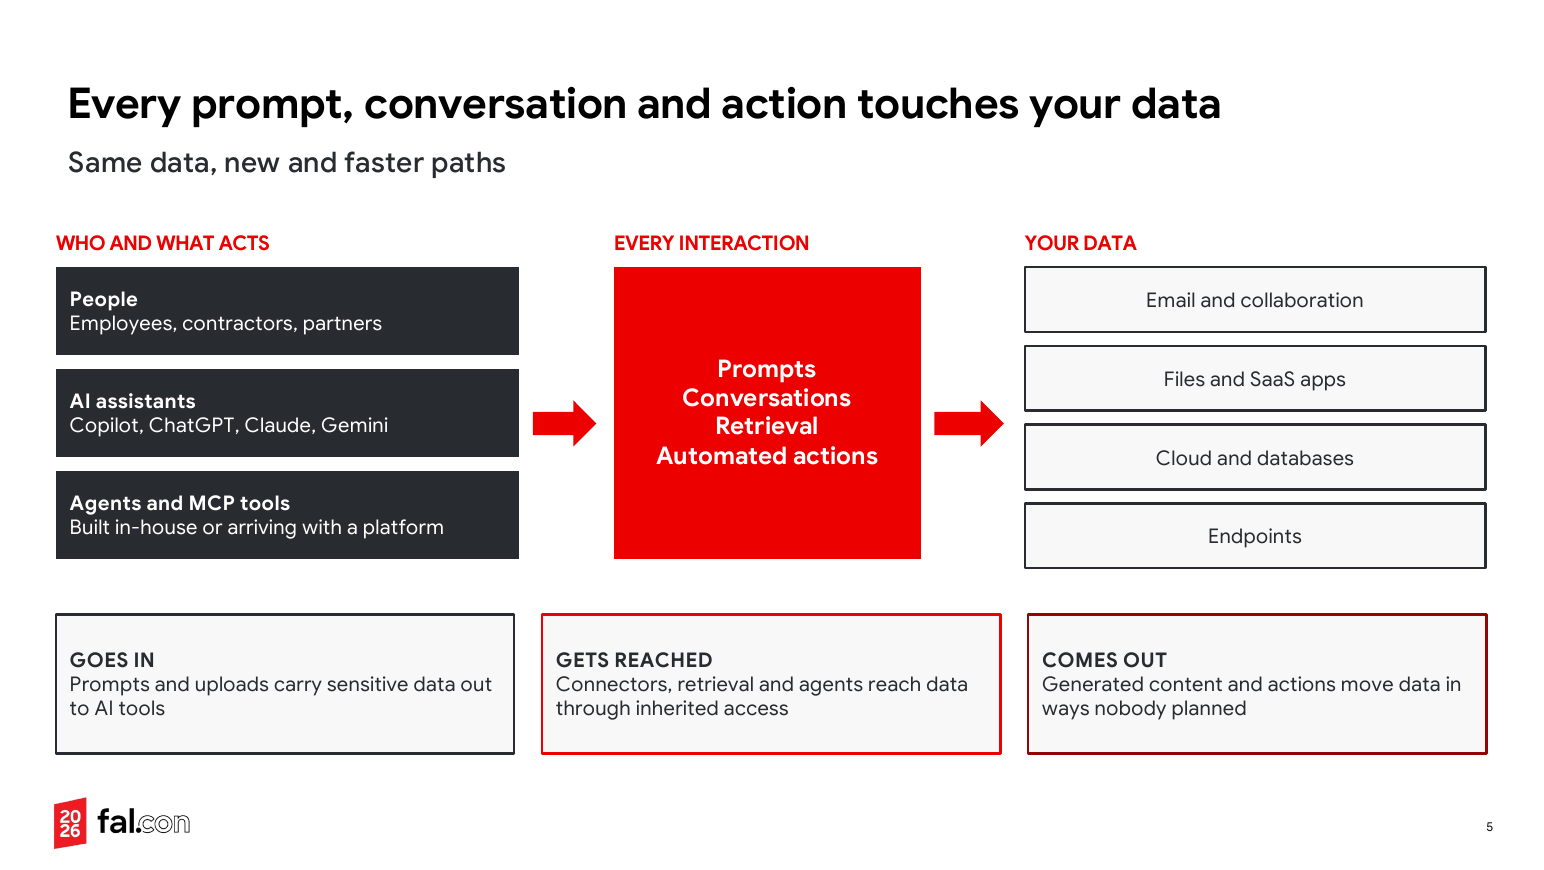
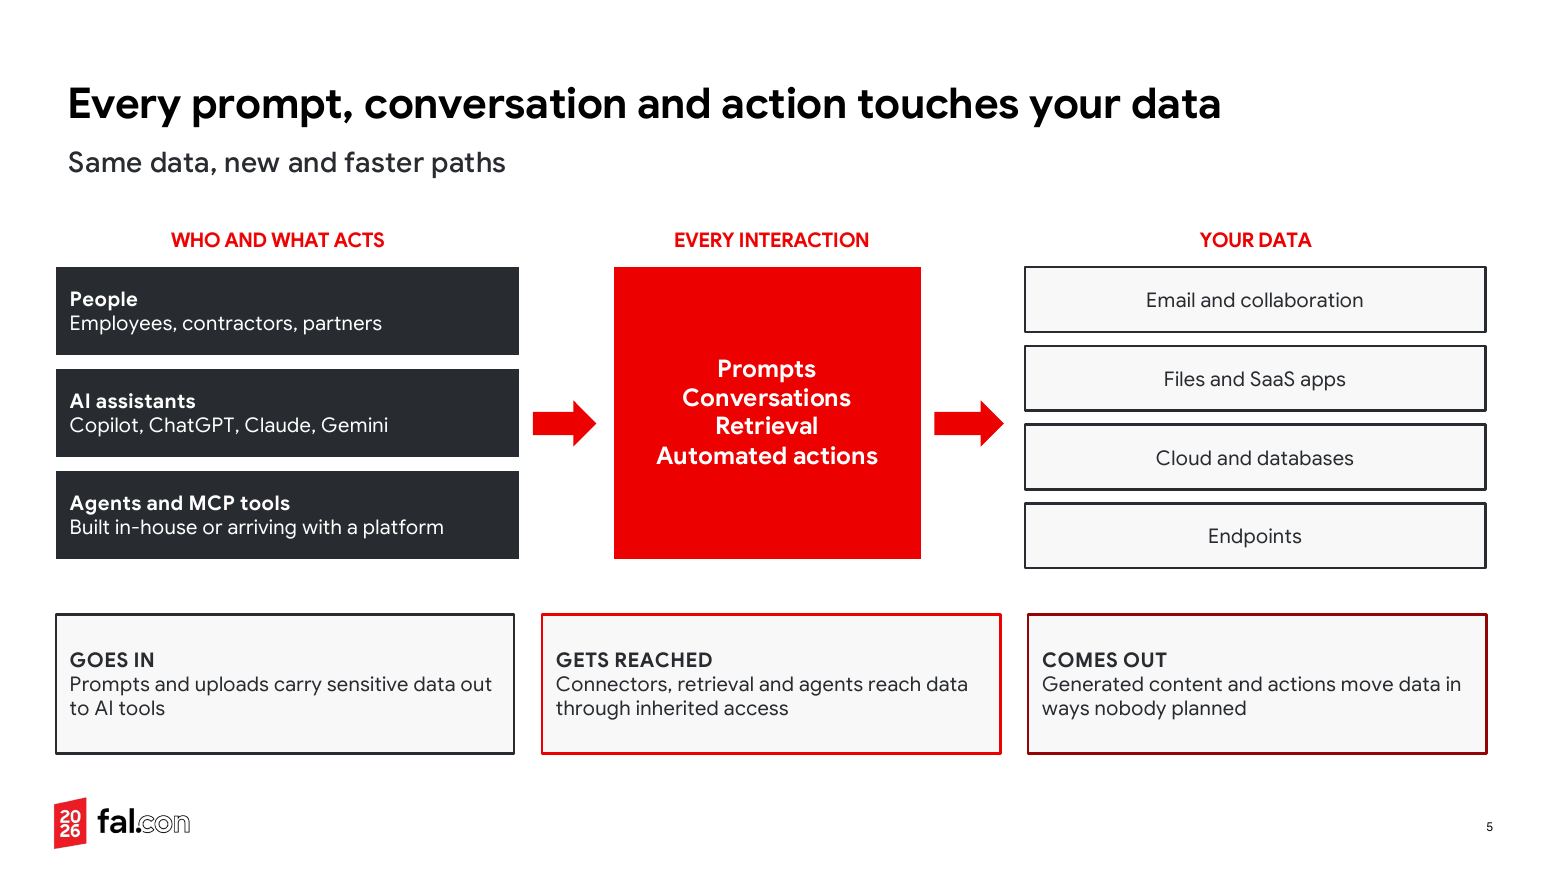
page updates

diff --git a/blog/index.html b/blog/index.html
@@ -23,76 +23,20 @@
 
     <!-- =========================================================
          Conversation thread.
-         The content below is STATIC sample content so the layout is
-         visible end-to-end (greeting → answer → rendered draft).
-         The live model, voice, and real .docx export are wired up in
-         later phases — this file is the UI shell only.
+         Seeded with ONE static assistant greeting — that's the whole
+         "illusion": the AI appears to greet you the moment the page
+         loads (app.js plays a short typing → greeting entrance). Nothing
+         else happens until the user submits. The live model, voice, and
+         real .docx export are wired up in later phases.
          ========================================================= -->
     <div id="thread" class="thread">
 
-      <!-- greeting (New blog resets the thread back to just this) -->
+      <!-- greeting — the only pre-seeded message. "New blog" resets here. -->
       <div class="turn assistant" id="greeting">
         <div class="avatar" aria-hidden="true"></div>
         <div class="content">
           <p>Hi — I'll help you draft a <strong>Proofpoint blog</strong>. Answer a few quick questions and I'll put together a first draft you can refine right here.</p>
           <p>To start: <strong>what are you announcing, and is there a partner involved?</strong></p>
-        </div>
-      </div>
-
-      <!-- sample user answer -->
-      <div class="turn user">
-        <div class="bubble">Proofpoint + SailPoint — we're extending the partnership to connect data security with identity governance, so customers can see which identities put their sensitive data at risk and fix it at the source.</div>
-      </div>
-
-      <!-- sample assistant draft -->
-      <div class="turn assistant">
-        <div class="avatar" aria-hidden="true"></div>
-        <div class="content">
-          <p>Here's a first draft. Tell me what to change — tighten a section, add a stat, swap the title — and I'll update it right here.</p>
-
-          <article class="blog-card">
-            <div class="blog-body">
-              <span class="eyebrow">Draft · Announcement</span>
-              <h1>Proofpoint Extends Its SailPoint Partnership to Reduce Data Exposure and Identify Risk</h1>
-              <p class="dek">Now you can understand and remediate risks to your sensitive data within the context of the identities that can access it.</p>
-              <p class="byline">By Nikhil Sinha, Nirav Shah, Jason Chow · Proofpoint</p>
-
-              <h2>The gap between identity and data</h2>
-              <p>Security and identity teams each see half the picture. Identity teams know who — and what — exists in their environment, but not always what those identities can actually reach, or how sensitive that data is. Data teams know what's sensitive, but not who can get to it, or whether that access is even still needed. Non-human identities make the gap worse: service accounts and AI agents multiply faster than either team can track manually.</p>
-
-              <h2>Why this matters now</h2>
-              <p>Proofpoint monitors more than 50 million cloud accounts across 8,000 customers for signs of account compromise — and in the past 12 months, 99%+ of monitored organizations were targeted for account takeover. According to SailPoint's research, 97% of AI agents have access to sensitive data today, and only 21% of organizations are highly confident they can manage that risk.</p>
-
-              <blockquote class="pullquote">
-                <p>"As AI agents and machine identities multiply across the enterprise, understanding what they can actually access is no longer optional — it's foundational to security."</p>
-                <cite>Soumya Banerjee, Head of Product Acceleration, SailPoint</cite>
-              </blockquote>
-
-              <h2>How it works</h2>
-              <ul>
-                <li><strong>Proofpoint classifies and remediates</strong> — it maps SailPoint's identity inventory to the sensitive data each identity can reach, then right-sizes or revokes access and hands the action to SailPoint to execute at the source.</li>
-                <li><strong>SailPoint enriches its identity context</strong> — it pulls Proofpoint's data-sensitivity metadata into the Identity Graph, so every identity risk profile now includes what sensitive data it can actually reach.</li>
-              </ul>
-
-              <h2>What this means for your organization</h2>
-              <p>The hard part of securing AI agents and service accounts isn't writing new policy — it's connecting the identity governance you already trust to the data it's meant to protect. This is the first step in a broader roadmap to bring identity and data security together.</p>
-              <p class="cta">If you're a joint Proofpoint and SailPoint customer, reach out to your account team to learn more.</p>
-
-              <h2>Frequently asked questions</h2>
-              <div class="faq">
-                <p class="q">What's actually new here?</p>
-                <p class="a">SailPoint's Identity Graph now includes Proofpoint's data-sensitivity context, and Proofpoint's remediation flow now includes SailPoint's identity and risk data — so both platforms act with the full picture, not half of it.</p>
-                <p class="q">Does this replace the partnership you've had since 2020?</p>
-                <p class="a">No — it extends it. The original partnership applied Proofpoint's risk visibility to human users; this brings data security and identity governance together across every identity, human and non-human.</p>
-                <p class="q">When can I get started?</p>
-                <p class="a">We expect this to be available to joint customers by the end of 2026 — reach out to your account team to be notified as it rolls out.</p>
-              </div>
-            </div>
-            <div class="blog-actions">
-              <button class="action-btn primary" type="button" data-action="download">Download .docx</button>
-              <button class="action-btn" type="button" data-action="copy">Copy</button>
-            </div>
-          </article>
         </div>
       </div>
 

diff --git a/blog/app.js b/blog/app.js
@@ -1,11 +1,14 @@
 /* ============================================================
    Blog Generator — UI shell behavior (no model wired yet)
 
-   This only drives the chat *surface*: auto-growing input, sending
-   a message (which echoes a user bubble — there is NO assistant
-   reply yet), "New blog" reset, and the blog-card Copy button.
-   The live model, voice dictation, and real .docx export are added
-   in later phases.
+   Drives the chat *surface* only:
+   • On load, plays a short "typing → greeting" entrance so the AI
+     appears to greet the visitor. The greeting itself is static
+     content pre-seeded in index.html (no model call) — the typing
+     dots are purely a presentational entrance.
+   • Sending echoes a user bubble (there is NO assistant reply yet).
+   • "New blog" replays the greeting entrance.
+   • The blog-card Copy button works; Download/voice are wired later.
    ============================================================ */
 (function () {
   'use strict';
@@ -16,8 +19,12 @@
   var micBtn = document.getElementById('micBtn');
   var newBtn = document.getElementById('newBtn');
 
-  // Snapshot the greeting so "New blog" can reset to a clean slate.
+  // Snapshot the greeting markup before we touch the thread, so we can
+  // replay it on load and on "New blog".
   var greetingHTML = document.getElementById('greeting').outerHTML;
+
+  var reduceMotion = window.matchMedia &&
+    window.matchMedia('(prefers-reduced-motion: reduce)').matches;
 
   /* ---- textarea auto-grow ---- */
   function autoGrow() {
@@ -29,10 +36,44 @@
   /* ---- scroll helper ---- */
   function scrollToEnd() { thread.scrollTop = thread.scrollHeight; }
 
+  /* ---- build the typing indicator turn ---- */
+  function typingTurn() {
+    var t = document.createElement('div');
+    t.className = 'turn assistant';
+    t.innerHTML =
+      '<div class="avatar" aria-hidden="true"></div>' +
+      '<div class="typing" role="status" aria-label="Assistant is typing">' +
+      '<span></span><span></span><span></span></div>';
+    return t;
+  }
+
+  /* ---- greeting entrance: typing dots, then the greeting fades in ----
+     This is the "illusion" — on every load / reset the AI appears to
+     greet the visitor, then waits. No network, no model. */
+  function showGreeting() {
+    thread.innerHTML = '';
+
+    function reveal() {
+      var tmp = document.createElement('div');
+      tmp.innerHTML = greetingHTML;
+      var g = tmp.firstElementChild;
+      if (!reduceMotion) g.classList.add('enter');
+      thread.appendChild(g);
+      scrollToEnd();
+    }
+
+    if (reduceMotion) { reveal(); return; }
+
+    var typing = typingTurn();
+    thread.appendChild(typing);
+    scrollToEnd();
+    setTimeout(function () { typing.remove(); reveal(); }, 750);
+  }
+
   /* ---- append a user turn (pure UI echo — no model reply yet) ---- */
   function addUserMessage(text) {
     var turn = document.createElement('div');
-    turn.className = 'turn user';
+    turn.className = 'turn user' + (reduceMotion ? '' : ' enter');
     var bubble = document.createElement('div');
     bubble.className = 'bubble';
     bubble.textContent = text;
@@ -57,13 +98,12 @@
     if (e.key === 'Enter' && !e.shiftKey) { e.preventDefault(); send(); }
   });
 
-  /* ---- New blog: reset the thread to just the greeting ---- */
+  /* ---- New blog: replay the greeting entrance ---- */
   newBtn.addEventListener('click', function () {
-    thread.innerHTML = greetingHTML;
     input.value = '';
     autoGrow();
+    showGreeting();
     input.focus();
-    scrollToEnd();
   });
 
   /* ---- mic: visual placeholder for now ---- */
@@ -109,7 +149,7 @@
     toastTimer = setTimeout(function () { toastEl.classList.remove('show'); }, 2200);
   }
 
-  /* ---- init ---- */
+  /* ---- init: play the greeting entrance ---- */
   autoGrow();
-  scrollToEnd();
+  showGreeting();
 })();

diff --git a/blog/styles.css b/blog/styles.css
@@ -52,6 +52,15 @@ body{
 /* user = right-aligned bubble */
 .bubble{background:var(--surface-2);border:1px solid var(--line);border-radius:16px;padding:10px 15px;max-width:80%;color:var(--ink);line-height:1.55;font-size:.95rem;white-space:pre-wrap;word-wrap:break-word}
 
+/* typing indicator (the "…AI is composing" entrance) + turn fade-in */
+.typing{display:inline-flex;align-items:center;gap:5px;background:var(--surface-2);border:1px solid var(--line);border-radius:16px;padding:13px 15px}
+.typing span{width:6px;height:6px;border-radius:50%;background:var(--ink-3);animation:typing-blink 1.4s infinite both}
+.typing span:nth-child(2){animation-delay:.18s}
+.typing span:nth-child(3){animation-delay:.36s}
+@keyframes typing-blink{0%,70%,100%{opacity:.3;transform:translateY(0)}35%{opacity:1;transform:translateY(-3px)}}
+.turn.enter{animation:turn-enter .35s ease both}
+@keyframes turn-enter{from{opacity:0;transform:translateY(5px)}to{opacity:1;transform:none}}
+
 /* ── Rendered blog draft ── */
 .blog-card{margin-top:12px;background:var(--surface);border:1px solid var(--line);border-radius:14px;box-shadow:var(--shadow);overflow:hidden}
 .blog-body{padding:24px 26px 6px}
@@ -104,4 +113,5 @@ body{
 }
 @media (prefers-reduced-motion:reduce){
   .action-btn,.toast,.composer{transition:none}
+  .typing span,.turn.enter{animation:none}
 }
